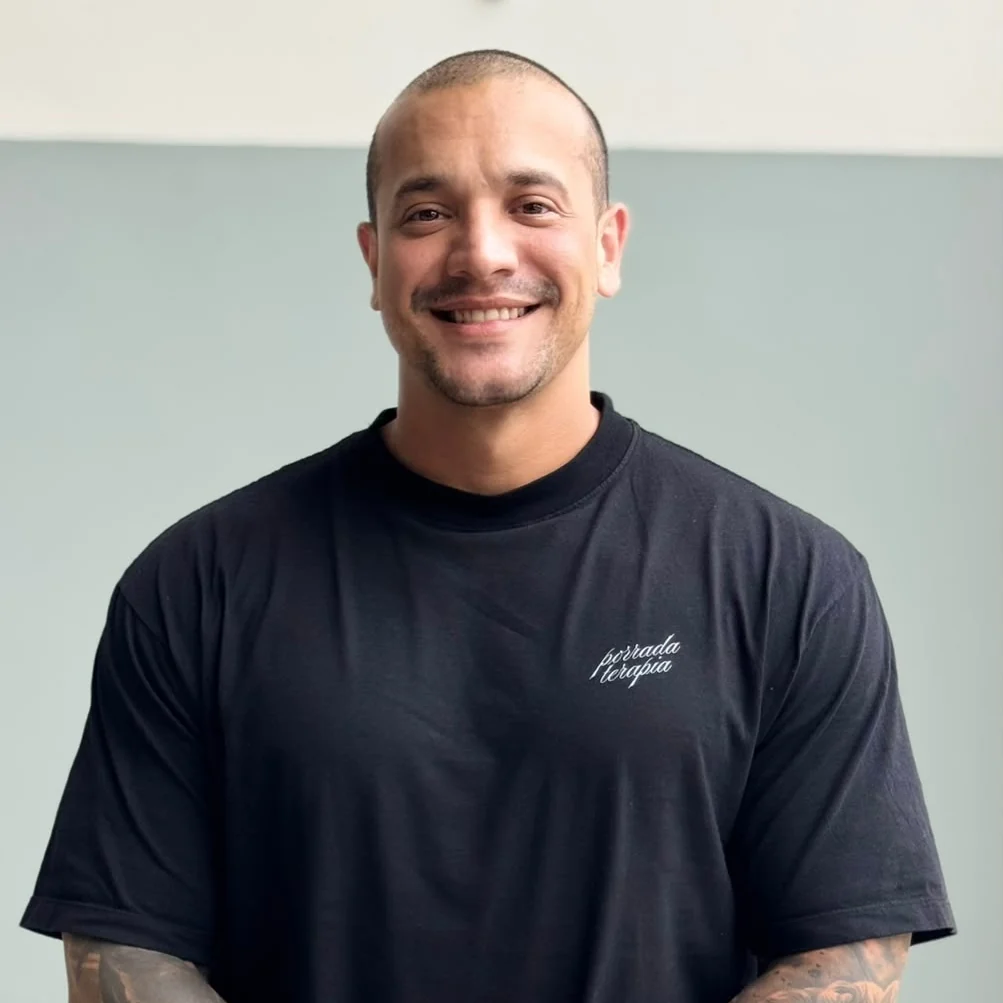
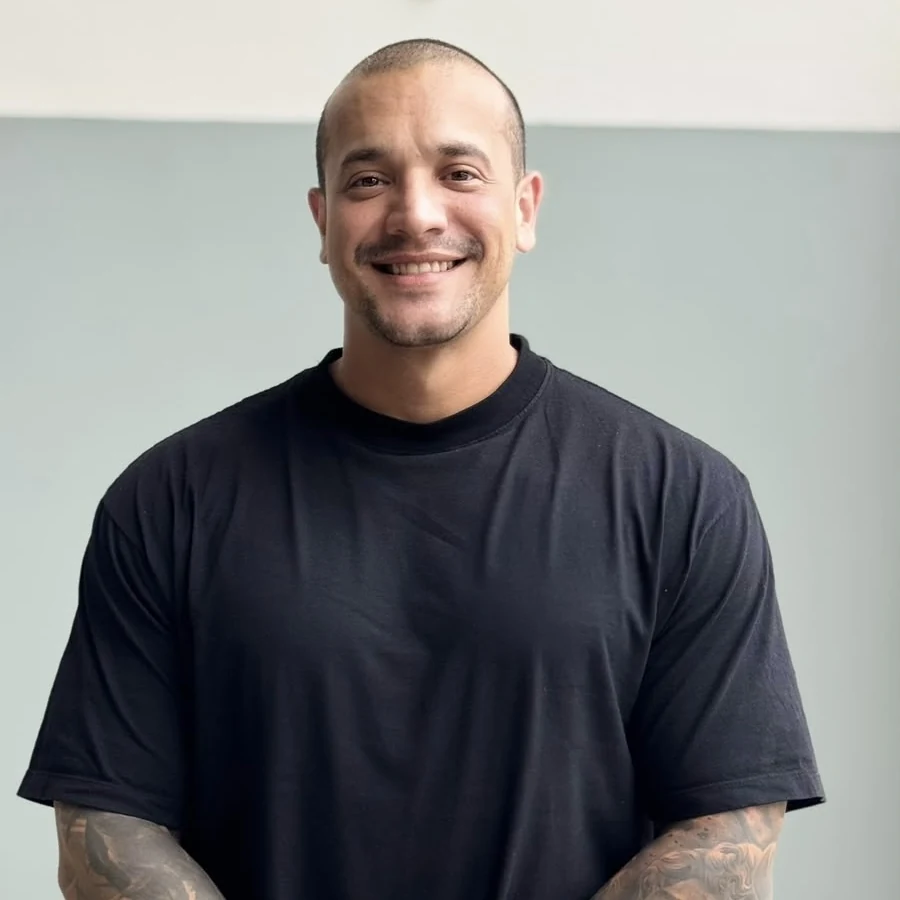
Troca a foto do CEO
Claude-Session: https://claude.ai/code/session_01AbjRSP9Pm2Gi7KVGMLdgJZ

diff --git a/index.html b/index.html
@@ -140,7 +140,7 @@
         <a href="#" class="btn btn--green" data-wa>Falar com a equipe <svg class="i" viewBox="0 0 24 24"><path d="M5 12h14M13 6l6 6-6 6"/></svg></a>
       </div>
       <figure class="ceo__media">
-        <img src="img/ceo-juan-carlos.webp" alt="Juan Carlos, CEO da Doctor Solutions" width="1003" height="1003" loading="lazy">
+        <img src="img/ceo-juan-carlos.webp?v=2" alt="Juan Carlos, CEO da Doctor Solutions" width="900" height="900" loading="lazy">
       </figure>
     </div>
   </div>
